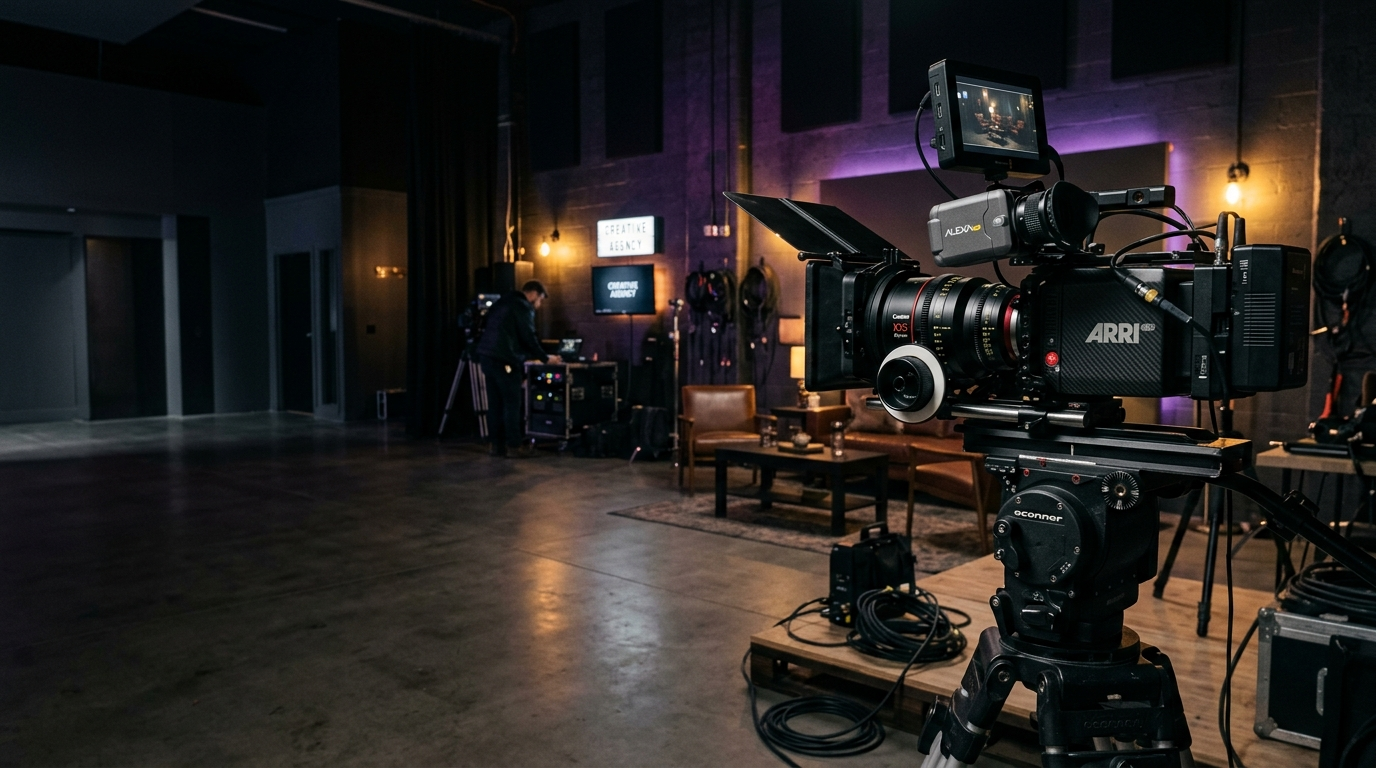
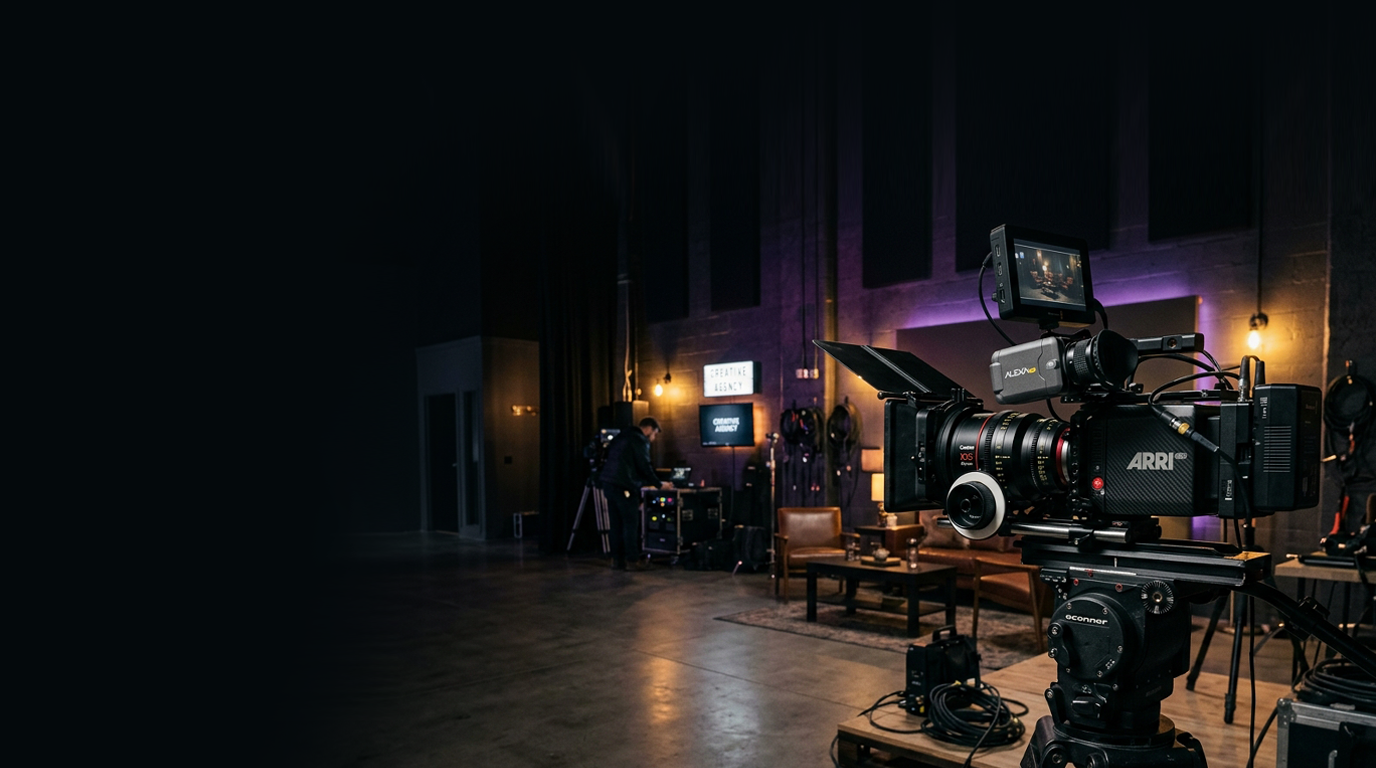
Add files via upload

diff --git a/css/style.css b/css/style.css
@@ -66,11 +66,12 @@ nav, header, body, html, #main-nav {
 #main-nav * {
     border-top: 0 !important;
     box-shadow: none !important;
-    filter: none !important;
+    
     drop-shadow: none !important;
 }
 body {
     margin: 0 !important;
     padding-top: 0 !important;
 }
+
 
